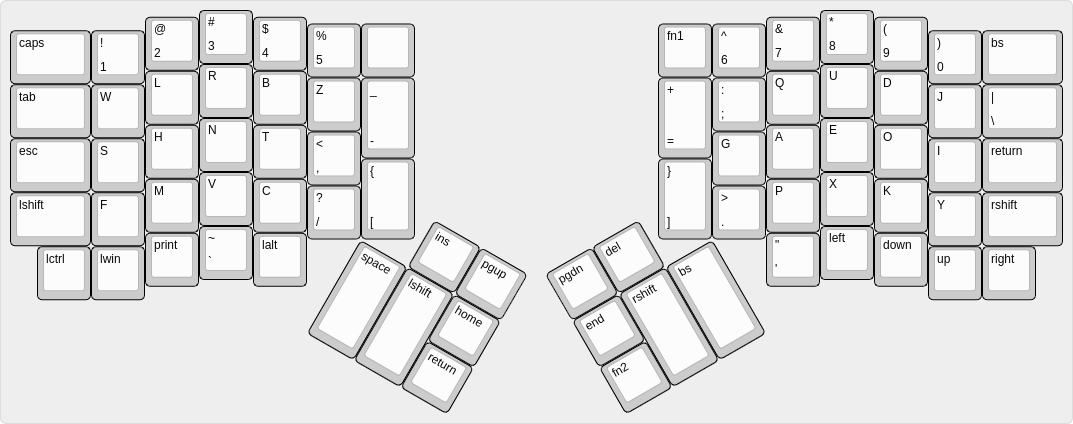
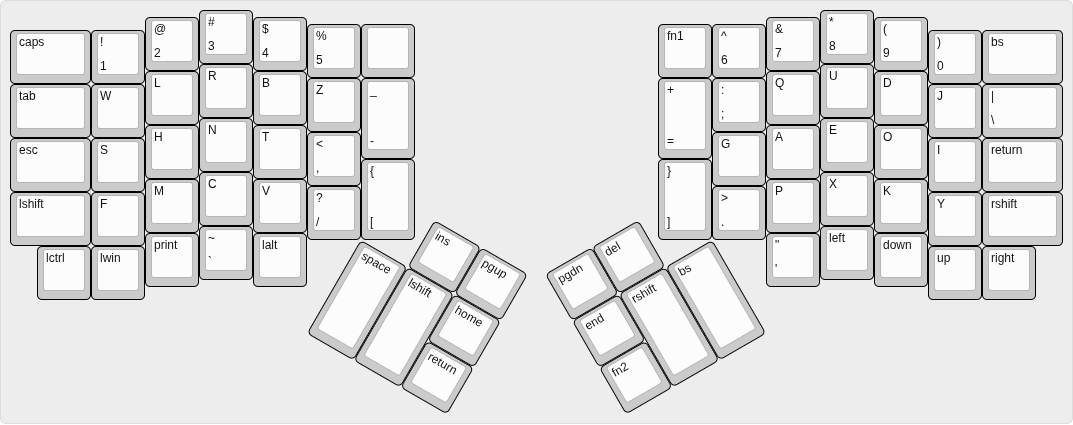
swap c and v on the base layer
- aligns the base layer with qwerty so ctrl+c and ctrl+v land where the muscle
  memory expects them
- the checksum at 0x11-0x12 is a word sum, not a byte sum, so transposing two
  adjacent keycodes changes it; tools/eep.py recomputes it and flash verifies
- a stale checksum is worse than no edit: the firmware discards the keymap and
  rewrites EEPROM with its compiled-in default

diff --git a/tools/eep.py b/tools/eep.py
@@ -1,0 +1,90 @@
+"""Verify or repair the checksum in a TKG keymap.eep.
+
+tkg.io generated these images and is permanently offline, so hand-editing is now
+the only way to change a keymap. A hand-edit that leaves the checksum stale is
+worse than a no-op: check_keymap_in_eeprom() fails, and the firmware responds by
+overwriting EEPROM with its compiled-in default keymap -- roughly 2.5 seconds of
+EEPROM writes on every plug-in, and the custom layout silently gone.
+
+Algorithm, from kairyu/tmk_core_custom common/keymap_in_eeprom.c: a 16-bit
+little-endian word sum seeded with EECONFIG_MAGIC_NUMBER, taken over the
+fn_actions and keymap region and stored little-endian just below it.
+
+Because the sum is over words rather than bytes, byte position matters: a byte at
+an even offset carries weight 256 and its neighbour weight 1. Transposing two
+adjacent keycodes therefore changes the checksum, which is exactly the trap this
+module exists to close.
+"""
+
+import sys
+
+MAGIC = 0xFEED
+CKSUM_LO, CKSUM_HI = 0x11, 0x12
+START, LENGTH = 0x13, 736  # u16 fn_actions[32] + keymaps[8][6][14]
+SIZE = 1024
+
+
+def decode(text):
+    mem = bytearray(SIZE)
+    for n, line in enumerate(text.splitlines(), 1):
+        line = line.strip()
+        if not line:
+            continue
+        if not line.startswith(":"):
+            raise ValueError(f"line {n}: not an Intel HEX record")
+        rec = bytes.fromhex(line[1:])
+        if (-sum(rec[:-1])) & 0xFF != rec[-1]:
+            raise ValueError(f"line {n}: bad record checksum")
+        count, addr, kind = rec[0], int.from_bytes(rec[1:3], "big"), rec[3]
+        if kind == 0:
+            mem[addr:addr + count] = rec[4:4 + count]
+    return mem
+
+
+def encode(mem):
+    out = []
+    for addr in range(0, SIZE, 16):
+        rec = bytes([16, addr >> 8, addr & 0xFF, 0]) + bytes(mem[addr:addr + 16])
+        out.append(":" + (rec + bytes([(-sum(rec)) & 0xFF])).hex().upper())
+    out.append(":00000001FF")
+    return "\r\n".join(out) + "\r\n"
+
+
+def checksum(mem):
+    total = MAGIC
+    for i in range(START, START + LENGTH, 2):
+        total = (total + mem[i] + (mem[i + 1] << 8)) & 0xFFFF
+    return total
+
+
+def stored(mem):
+    return mem[CKSUM_LO] | (mem[CKSUM_HI] << 8)
+
+
+def apply(mem):
+    value = checksum(mem)
+    mem[CKSUM_LO], mem[CKSUM_HI] = value & 0xFF, value >> 8
+    return value
+
+
+def main(argv):
+    if len(argv) < 2:
+        sys.exit("usage: eep.py <keymap.eep> [--fix]")
+    path = argv[1]
+    mem = decode(open(path, newline="").read())
+    want, have = checksum(mem), stored(mem)
+    if want == have:
+        print(f"{path}: checksum 0x{have:04X} OK")
+        return 0
+    if "--fix" in argv:
+        apply(mem)
+        open(path, "w", newline="").write(encode(mem))
+        print(f"{path}: checksum 0x{have:04X} -> 0x{want:04X}, repaired")
+        return 0
+    print(f"{path}: checksum 0x{have:04X}, expected 0x{want:04X}", file=sys.stderr)
+    print("the firmware will discard this keymap; rerun with --fix", file=sys.stderr)
+    return 1
+
+
+if __name__ == "__main__":
+    sys.exit(main(sys.argv))

diff --git a/README.md b/README.md
@@ -48,15 +48,42 @@ way.
 
 ## Editing the layout
 
-1. Draw the layer at <http://www.keyboard-layout-editor.com/>, pasting the
-   matching `layers/*.kle` file into the *Raw data* tab.
-2. Compile it at <https://tkg.io/> and download `keymap.eep`. Mirrors, should
-   that one be down: <https://yang.tkg.io/>,
-   <https://tools.lotlab.org/tkg/>, <https://xd.tkg.io/>.
-3. Save the raw data back to `layers/*.kle` **and re-export the matching
-   `.png`** — they drift apart easily, which is how the number layer spent two
-   years showing no F-keys.
+`keymap.eep` was originally generated by tkg.io. **Every tkg.io mirror is now
+offline**, so the image has to be edited by hand:
+
+1. Edit the keycode byte in `keymap.eep`. The image is a 1 KB EEPROM dump in
+   Intel HEX; keycodes are one byte per matrix position from `0x53`, layer 0
+   first. `tools/eep.py` decodes it if you need to find an offset.
+2. **Repair the checksum** — see below. This step is not optional.
+3. Update the matching `layers/*.kle` and **re-export its `.png`**; they drift
+   apart easily, which is how the number layer spent two years showing no
+   F-keys. Paste the raw data into <http://www.keyboard-layout-editor.com/>.
 4. Flash, then check the result with `showkey -a`.
+
+### The checksum
+
+The image carries a 16-bit checksum at `0x11`–`0x12`: a little-endian **word**
+sum over `0x13`–`0x2F2`, seeded with TMK's `EECONFIG_MAGIC_NUMBER` (`0xFEED`).
+
+Because it sums 16-bit words and not bytes, byte position matters — an even
+offset carries weight 256 and its neighbour weight 1. Transposing two adjacent
+keycodes changes the checksum even though the byte total is unchanged.
+
+Getting this wrong is worse than making no edit at all. `check_keymap_in_eeprom()`
+fails, and the firmware responds by *overwriting* EEPROM with its compiled-in
+default keymap. The symptom is a keyboard that boots into stock qwerty after a
+couple of seconds of delay — that pause is 736 bytes of EEPROM being rewritten
+on every plug-in.
+
+```bash
+nix run .#eep -- keymap.eep          # verify
+nix run .#eep -- keymap.eep --fix    # recompute and write back
+```
+
+`flash` verifies before writing, so a stale checksum is refused rather than
+discovered on the keyboard.
+
+Reference: `keymap_in_eeprom.c` in [kairyu/tmk_core_custom](https://github.com/kairyu/tmk_core_custom).
 
 ### Function keys
 
